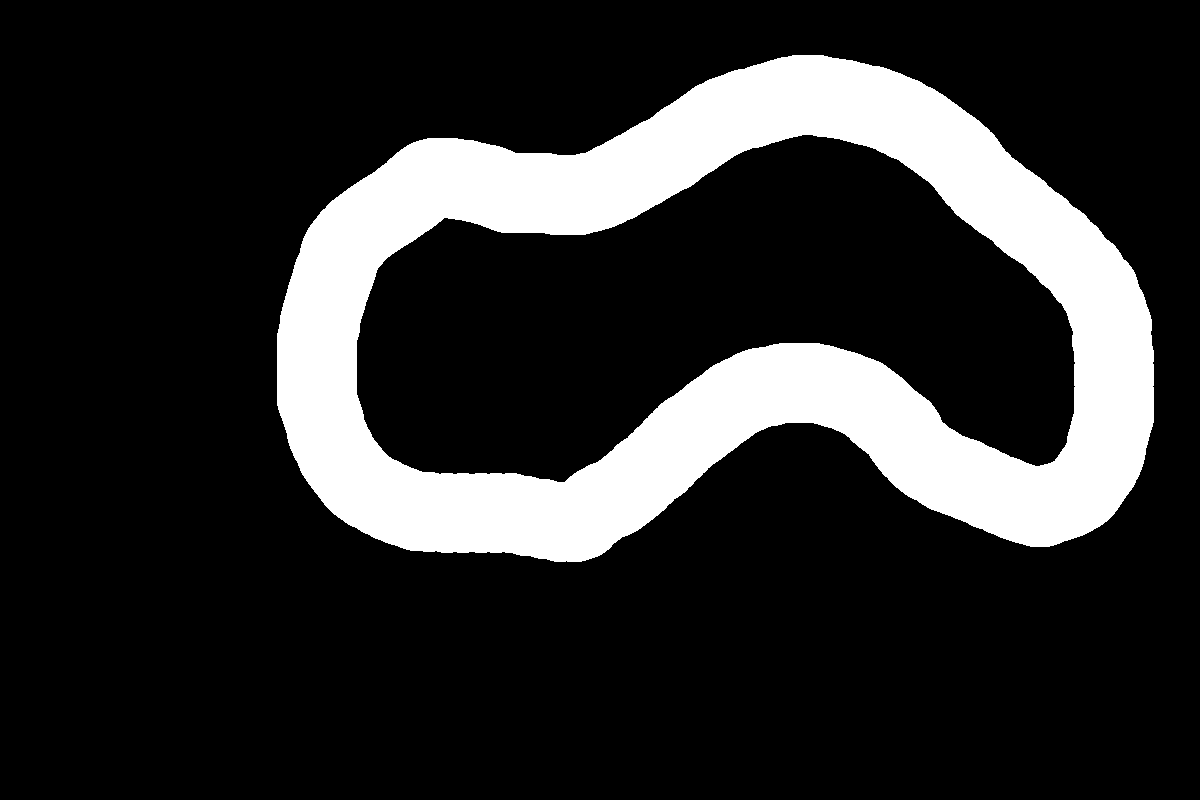
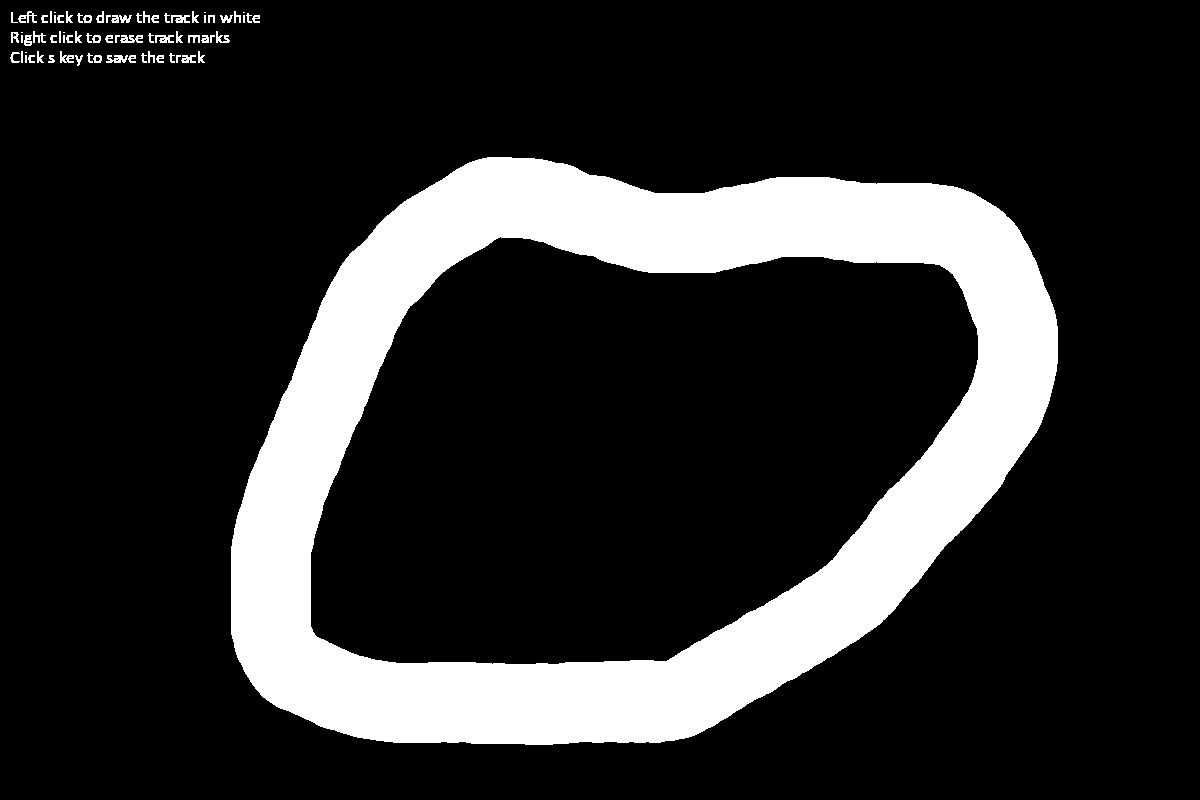
next steps : place car starting point - handle keys etc

Changed region(s): [[0.185, 0.0625, 0.9867, 0.9375], [0.0, 0.0, 0.2158, 0.0938]]

diff --git a/Genetic_Algorithm_Car/AIMainLoop.py b/Genetic_Algorithm_Car/AIMainLoop.py
@@ -32,7 +32,20 @@ class AIMainLoop():
                         break
                     elif event.key == pygame.K_s:
                         pygame.image.save(self.track.surface, "./Genetic_Algorithm_Car/assets/racetracks/Racetrack.png")
+                        pygame.display.set_caption("Track Saved")
                         print("Track Saved")
+
+            font = pygame.font.SysFont("Calibri", 18)
+            txtsurf1 = font.render("Left click to draw the track in white", True, Color.WHITE)
+            txtsurf2 = font.render("Right click to erase track marks", True, Color.WHITE)
+            txtsurf3 = font.render("Press s key to save the track", True, Color.WHITE)
+            self.track.surface.blit(txtsurf1,(10, txtsurf1.get_height() // 2))
+            self.track.surface.blit(txtsurf2,(10, txtsurf1.get_height() // 2 + 20))
+            self.track.surface.blit(txtsurf3,(10, txtsurf1.get_height() // 2 + 40))
+
+            txtsurf4 = font.render("Press Return to place Car Starting Point", True, Color.WHITE)
+            self.track.surface.blit(txtsurf4,(self.track.width - txtsurf4.get_width() // 2 - 150, txtsurf4.get_height() // 2))
+
 
             self.track.user_track_drawing()
             pygame.display.flip()
